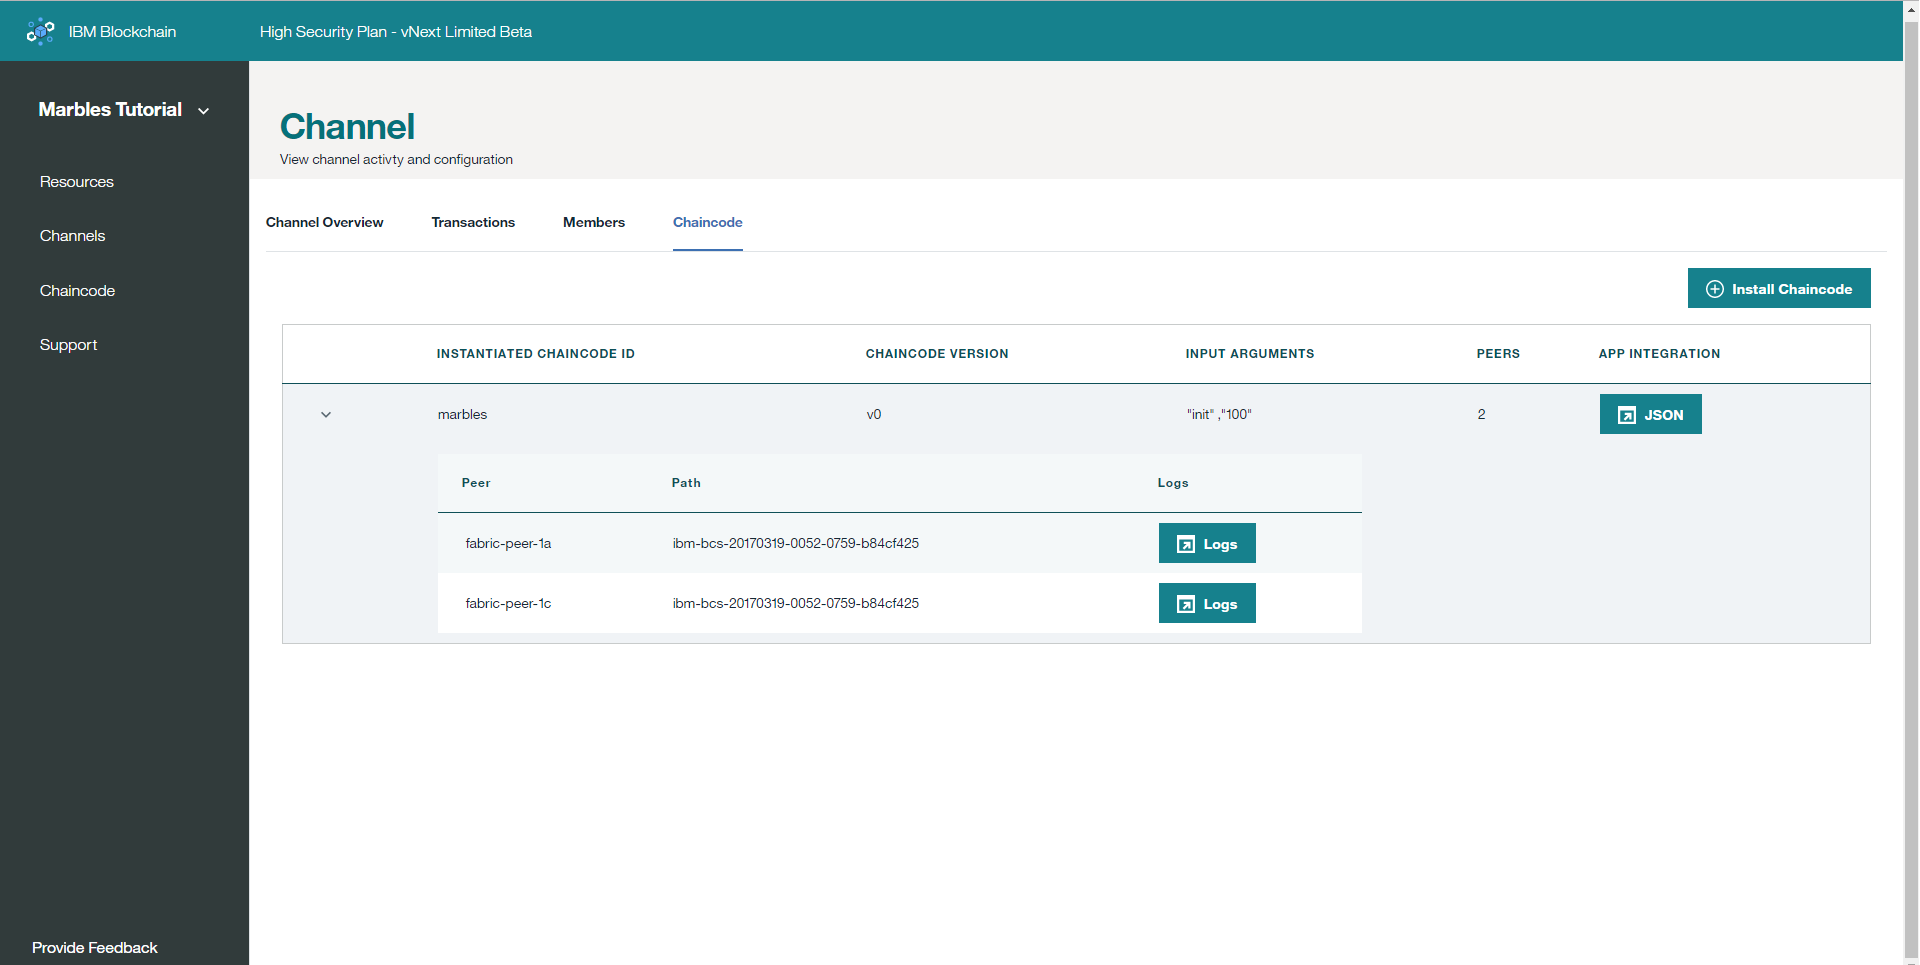
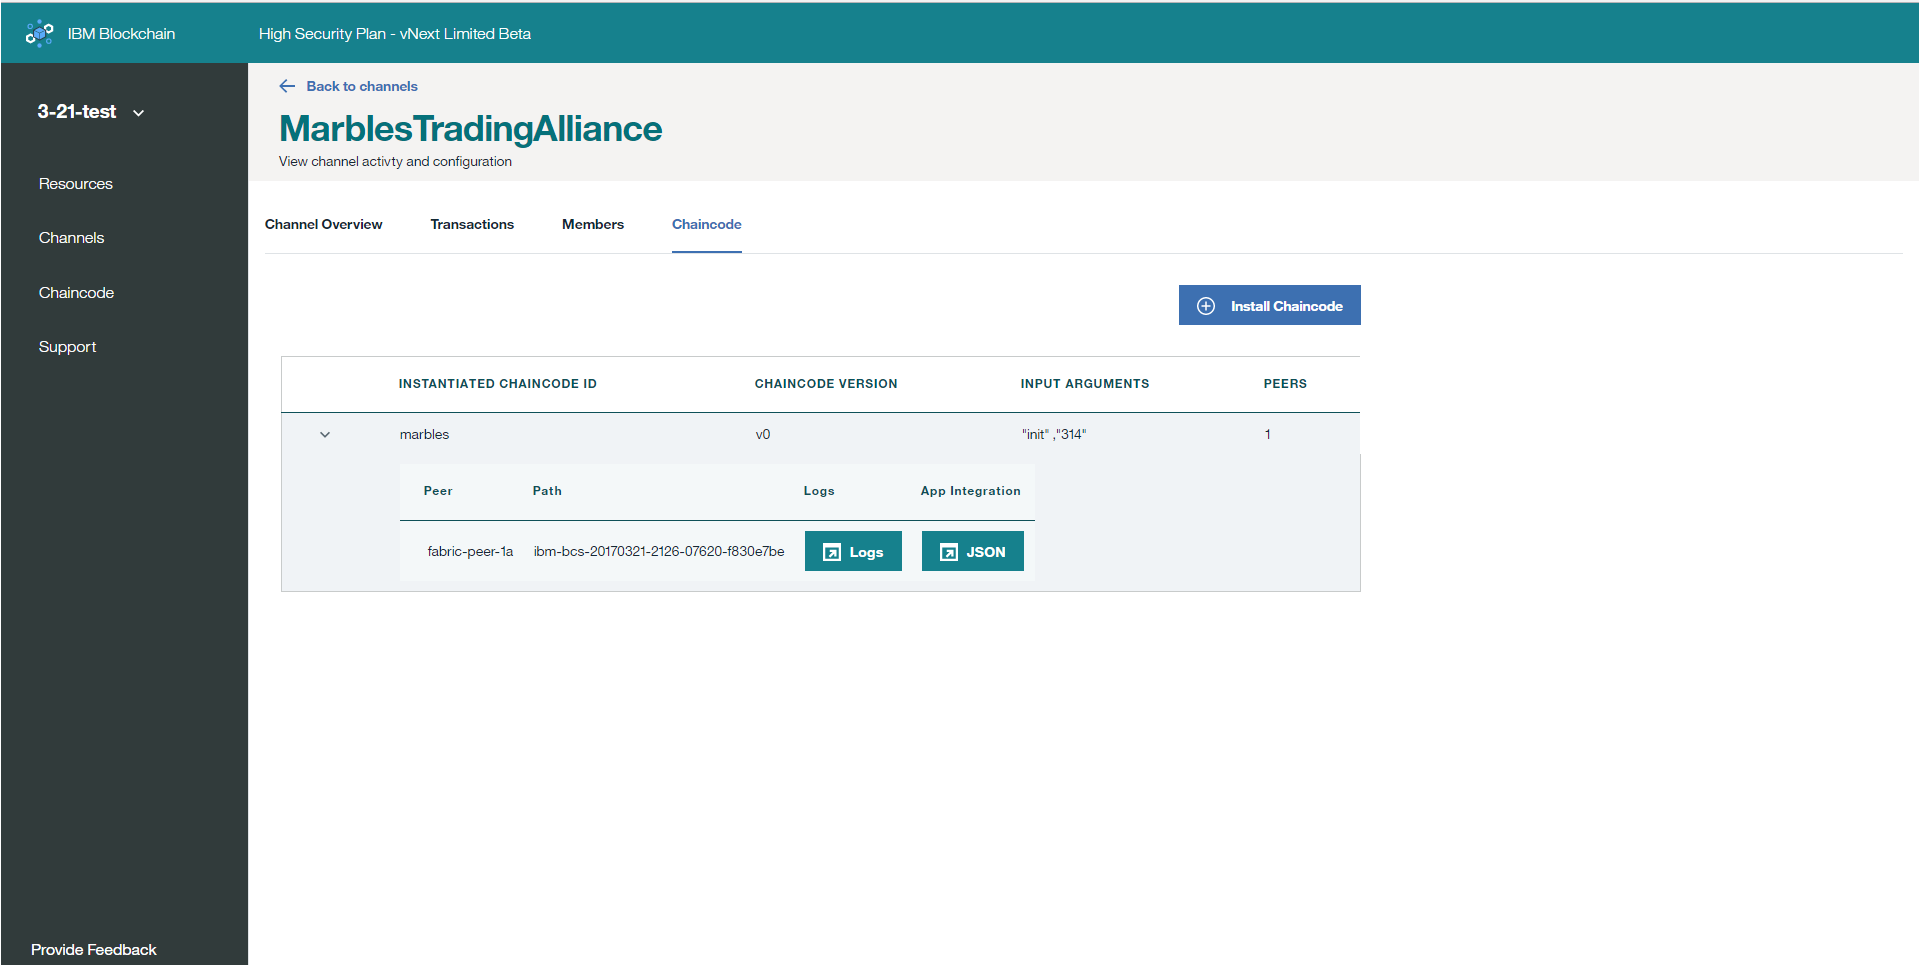
clairfy install readme

diff --git a/utils/fc_wrangler/query_peer.js b/utils/fc_wrangler/query_peer.js
@@ -18,7 +18,6 @@ module.exports = function (logger) {
 		}
 	*/
 	query_peer.query_block = function (obj, options, cb) {
-		console.log('');
 		logger.debug('[fcw] Querying Block: ' + options.block_id);
 		var chain = obj.chain;
 
@@ -45,7 +44,6 @@ module.exports = function (logger) {
 		options: {}
 	*/
 	query_peer.query_channel = function (obj, options, cb) {
-		console.log('');
 		logger.debug('[fcw] Querying Channel Stats:');
 		var chain = obj.chain;
 

diff --git a/docs/install_chaincode.md b/docs/install_chaincode.md
@@ -30,9 +30,12 @@
 ![](/doc_images/12-instantiate-marbles.PNG)
 
 - The arguments input box is for entering the arguments we want to pass to our chaincode's Init() function.
-- Marbles chaincode is expecting a single integer. Enter your favorite number. Mines 314. 
-- Next from the channel list select our 1 and only channel
+	- Typically this is an array of strings.  As you type you can see exactly what will be sent in the lower input named "Chaincode Arguments".
+- Marbles chaincode is expecting a single numeric input argument. Therefore enter your favorite number. Mines 314. 
+	- Marbles chaincode will store this number to the ledger as a self-test of sorts. It can literaly be any number you want. 
+- Next from the "Channel" drop down, select our 1 and only channel
 - Then click the "Submit" button
+- If it went well the chaincode page will refresh
 
 ![](/doc_images/13-instantiated-marbles.PNG)
 
@@ -40,9 +43,17 @@
 - Click the "Channels" link on the left navigation
 - Click the channel you instantiated marbles on
 - Click the "Chaincode" tab
-- On this panel, you should see something simialr to the picture above.  Marbles is instantiated on both peers and we can click the logs button to see it has started up. 
+- On this panel, you should see something simialr to the picture above.  Marbles is instantiated on at least one peer. 
+- Expand the row to see which peer. 
+- Click the log button to see if marbles has started up. You should log messages like:
+
+```
+	Marbles Is Starting Up
+ 	- ready for action
+```
+
 - The last thing we need to do is grab all the service instance's credentials for our network. We will use this data to inform the marbles node.js application of our blockchain's networking addresses and credentials.
-- Get basic service credentials by clicking the "JSON" button
+- Get basic service credentials by clicking the "JSON" button under the "App Integration" column (you may need to expand the chaincode row first)
 - This will open the JSON in your browser. Copy this data and save/replace the entire contents of the file `<marbles directory>/config/blockchain_creds1.json` 
   - This JSON a simplified version of your Service Credentials.  It has 1 orderer, 1 ca, 1 peer which is all we need for marbles.
 
